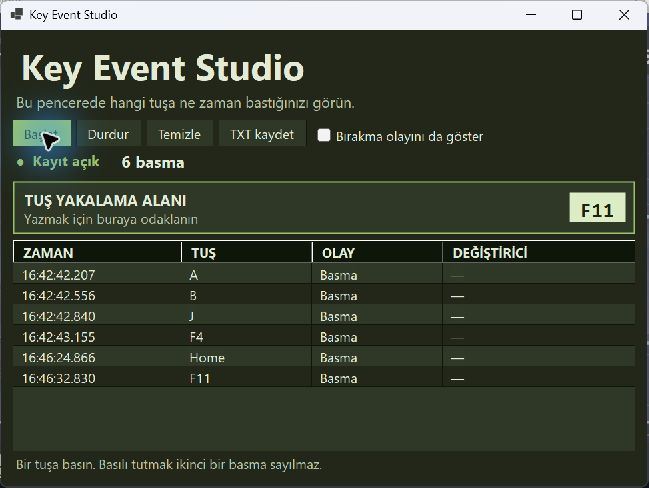
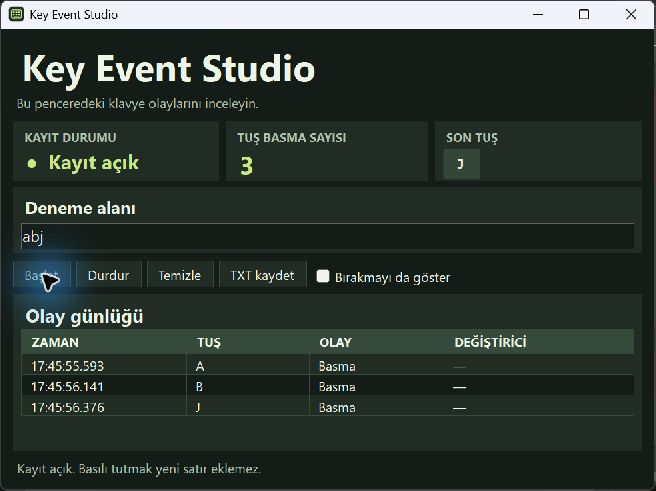
docs: başlatma akışını ve tuş kartlarını ekran görüntüleriyle göster

diff --git a/README.md b/README.md
@@ -1,6 +1,6 @@
 # Key Event Studio
 
-YMH219 için Windows Forms klavye olayları laboratuvarı. Açık olan yakalama alanında tuş adını, zamanı, olay türünü ve değiştiricileri bir tabloda gösterir.
+YMH219 için Windows Forms klavye olayları laboratuvarı. Tuş adını, zamanı, olay türünü ve değiştiricileri bir tabloda gösterir. Üst kartlarda kayıt durumu, basma sayısı ve son tuş görünür.
 
 **Öğrenci** · Mustafa Alkhatta, 250541607
 
@@ -16,14 +16,14 @@ dotnet run -c Release
 
 ## Kullanım
 
-1. **Başlat** ile yakalama alanı odaklanır. Harf, F4, Home veya F11 gibi tuşları deneyin.
+1. **Başlat** ile kayıt başlar. Deneme alanı otomatik odaklanır. Harf, F4, Home veya F11 gibi tuşları deneyin.
 2. Varsayılan görünümde her fiziksel basma bir satırdır. Tuşu basılı tutmak yeni satır üretmez. Tuş bırakıldıktan sonra yeniden basılabilir.
 3. **Bırakma olayını da göster** seçeneği ayrı bırakma olayını tabloya ekler. Toplam basma sayacı bu ayardan etkilenmez.
 4. **Durdur** kaydı kapatır. **Temizle** tabloyu ve sayacı sıfırlar. **TXT kaydet** görünen kayıtları UTF-8 tablosuna yazar.
 
 ## Teknoloji ve sınıflar
 
-C# / .NET 10, Windows Forms, yerel `KeyDown` ve `KeyUp` olayları, UTF-8 dosya yazımı. Harici NuGet paketi yoktur. `KeyPad` giriş odağını, `CaptureSession` basılı tuş kümesini ve kayıtları, `KeyWindow` arayüz ve dosya seçimini yönetir.
+C# / .NET 10, Windows Forms, yerel `KeyDown` ve `KeyUp` olayları, UTF-8 dosya yazımı. Harici NuGet paketi yoktur. `KeyWindow`, `KeyPreview` aracılığıyla kendi kontrollerinin klavye olaylarını alır. `CaptureSession` basılı tuşları ve kayıtları yönetir. `KeyPulse` son basılan tuşu küçük bir animasyonla gösterir.
 
 ## Ekran görüntüleri
 
@@ -32,6 +32,6 @@ C# / .NET 10, Windows Forms, yerel `KeyDown` ve `KeyUp` olayları, UTF-8 dosya y
 
 ## Sınırlar ve doğrulama
 
-Yakalama yalnız bu uygulamada ve yakalama alanı odaktayken gerçekleşir. Odağı kaybedince kayıt durur. Tab, Windows kısayolları ve Alt+F4 normal işlevlerini sürdürür. Kayıtlar bellekte son 1000 satırla sınırlıdır. Dışa aktarma kullanıcı dosya seçtiğinde gerçekleşir.
+Yakalama bu uygulama penceresi aktifken gerçekleşir. Odağı kaybedince kayıt durur. Tab ve Alt+F4 normal işlevlerini sürdürür. Kayıtlar bellekte son 1000 satırla sınırlıdır. TXT çıktısı tuş olaylarını ve zamanlarını içerir. Deneme alanının metni ayrıca kaydedilmez.
 
-Windows Release derlemesi, basılı tuş tekrarı, bırakma seçeneği ve UTF-8 TXT çıktısı kontrol edildi.
+Windows Release derlemesi, Başlat sonrası doğrudan metin girişi, büyütülmüş pencerede tablo odaklı F11 olayı, bırakma seçeneği ve UTF-8 TXT çıktısı kontrol edildi.
